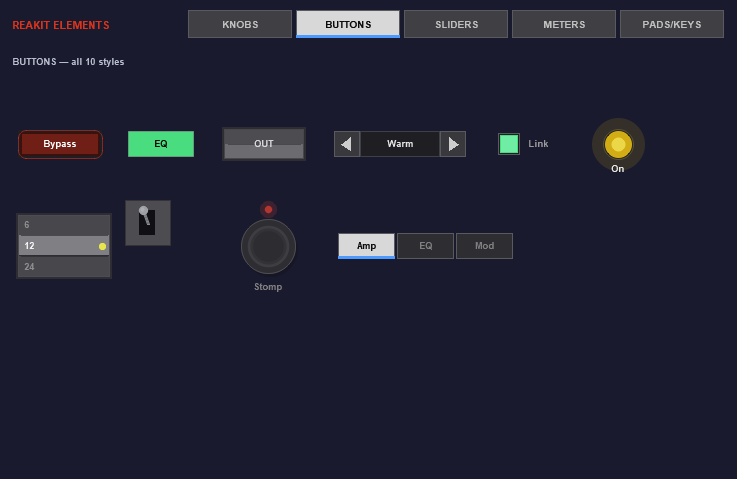
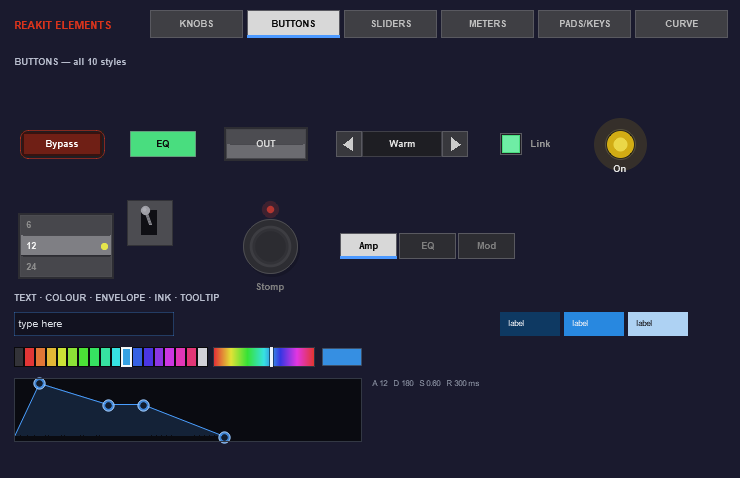
Six real screenshots of what 1.4.0 actually looks like
Captured from the running plugin, one per tab, replacing five that were
a month old and a release behind. tab_buttons predated the four widgets
now sitting on that tab; there was no CURVE capture at all.

These also settle the one thing 1.4.0 shipped without: rk_textfield,
rk_colorpick, rk_adsr, rk_tooltip and rk_ink had never been compiled by
REAPER. The Buttons capture is them running. The release is sound.

diff --git a/README.md b/README.md
@@ -9,12 +9,16 @@ six category tabs:
 
 ![ReaKit Elements — Knobs tab](screenshots/tab_knobs.png)
 
-*KNOBS — all 19 styles, live on one page. Click one, scroll to change.*
+*KNOBS — all 19 styles on one page (a 20th, SSL-G, is style 21). Click one,
+scroll to change.*
 
 ![ReaKit Elements — Buttons tab](screenshots/tab_buttons.png)
 
-*BUTTONS — all 10 styles: toggles, pills, LEDs, steppers, list select,
-rocker, stomp, tab bar (the showcase's own tab bar is this widget).*
+*BUTTONS — all 10 styles: toggles, pills, LEDs, steppers, list select, rocker,
+stomp, tab bar (the showcase's own tab bar is this widget). Below them, the
+widgets added in 1.4.0: a text field you can type in, the colour picker, the
+ADSR editor, and three chips showing auto-contrast ink pick its own colour
+against the background you gave it.*
 
 ![ReaKit Elements — Sliders tab](screenshots/tab_sliders.png)
 
@@ -29,6 +33,12 @@ cover to pick one of its 20 faces).*
 ![ReaKit Elements — Pads & Keys tab](screenshots/tab_padskeys.png)
 
 *PADS & KEYS — the drum pad grid and piano keyboard widgets.*
+
+![ReaKit Elements — Curve tab](screenshots/tab_curve.png)
+
+*CURVE — rk_curve at full width: drag a node, wheel it for width, double-click
+to flatten. The bands behind it are the meter library's spectrum, placed by
+frequency so the two axes agree however either is configured.*
 
 *Everything above is drawn by the library itself.*
 
